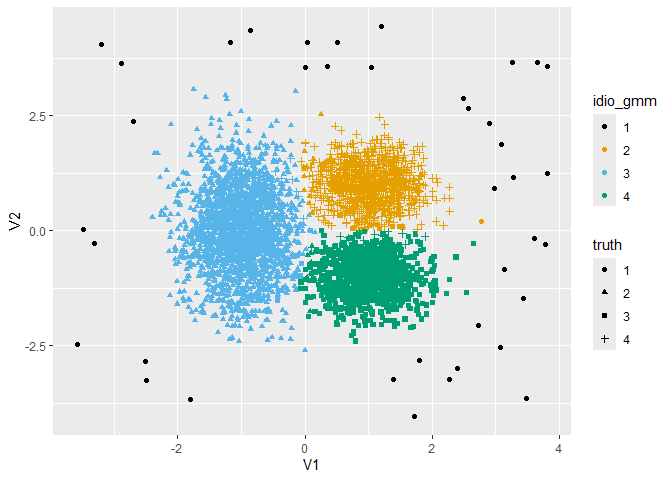
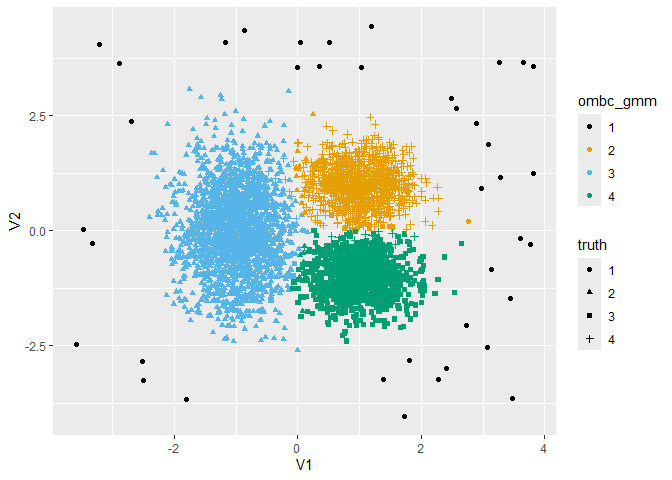
idioClust to outlierMBC

diff --git a/README.md b/README.md
@@ -1,13 +1,13 @@
-idioClust
+outlierMBC
 ================
 Ultán P. Doherty
 2024-04-18
 
-## Iterative Detection & Identification of Outliers while Clustering
+## Outlier Identification for Model-Based Clustering
 
-- `idio_gmm` - Identify multivariate outliers while clustering the data
+- `ombc_gmm` - Identify multivariate outliers while clustering the data
   with a Gaussian mixture model.
-- `idio_mlr` - Identify response variable outliers while fitting a
+- `ombc_mlr` - Identify response variable outliers while fitting a
   multiple linear regression model to the data.
 - `simulate_noisy_gmm` - Simulate data from a Gaussian mixture model
   with multivariate outliers.
@@ -19,28 +19,34 @@ library(ggplot2)
 devtools::load_all()
 ```
 
-    ## ℹ Loading idioClust
+    ## ℹ Loading outlierMBC
 
 ### `simulate_noisy_gmm`
 
 ``` r
 n_vec <- c(2000, 1000, 1000)
 mu_list <- list(c(-1, 0), c(+1, -1), c(+1, +1))
-sigma_list <- list(diag(c(0.2, 4 * 0.2)),
-                  diag(c(0.2, 0.2)),
-                  diag(c(0.2, 0.2)))
+sigma_list <- list(
+  diag(c(0.2, 4 * 0.2)),
+  diag(c(0.2, 0.2)),
+  diag(c(0.2, 0.2))
+)
 
 noisy_gmm_p2g3 <- simulate_noisy_gmm(
- n_vec, mu_list, sigma_list,
- outlier_num = 40, seed = 123, crit_val = 0.9999,
- unif_range_multiplier = 1.5
+  n_vec, mu_list, sigma_list,
+  outlier_num = 40, seed = 123, crit_val = 0.9999,
+  unif_range_multiplier = 1.5
 )
 ```
 
 ``` r
-ggplot(as.data.frame(noisy_gmm_p2g3),
-       aes(x = V1, y = V2,
-           colour = as.factor(labels), shape = as.factor(labels))) +
+ggplot(
+  as.data.frame(noisy_gmm_p2g3),
+  aes(
+    x = V1, y = V2,
+    colour = as.factor(labels), shape = as.factor(labels)
+  )
+) +
   geom_point() +
   labs(colour = "truth", shape = "truth") +
   ggokabeito::scale_colour_okabe_ito(order = c(9, 1, 2, 3))
@@ -48,31 +54,41 @@ ggplot(as.data.frame(noisy_gmm_p2g3),
 
 ![](README_files/figure-gfm/unnamed-chunk-3-1.png)<!-- -->
 
-### `idio_gmm`
+### `ombc_gmm`
 
 ``` r
-idio_gmm_p2g3 <- idio_gmm(noisy_gmm_p2g3[, 1:2], comp_num = 3, max_out = 80,
-                         print_interval = Inf)
+ombc_gmm_p2g3 <- ombc_gmm(noisy_gmm_p2g3[, 1:2],
+  comp_num = 3, max_out = 80,
+  print_interval = Inf
+)
 ```
 
 ``` r
-ggplot(data.frame(outliers_removed = 0:80, 
-                  distrib_diffs = idio_gmm_p2g3$distrib_diffs),
-       aes(x = outliers_removed, y = distrib_diffs)) +
+ggplot(
+  data.frame(
+    outliers_removed = 0:80,
+    distrib_diffs = ombc_gmm_p2g3$distrib_diffs
+  ),
+  aes(x = outliers_removed, y = distrib_diffs)
+) +
   geom_line() +
   geom_point() +
-  geom_vline(xintercept = idio_gmm_p2g3$outlier_num)
+  geom_vline(xintercept = ombc_gmm_p2g3$outlier_num)
 ```
 
 ![](README_files/figure-gfm/unnamed-chunk-5-1.png)<!-- -->
 
 ``` r
-ggplot(as.data.frame(noisy_gmm_p2g3),
-       aes(x = V1, y = V2,
-           colour = as.factor(idio_gmm_p2g3$gmm_labels),
-           shape = as.factor(1 + labels))) +
+ggplot(
+  as.data.frame(noisy_gmm_p2g3),
+  aes(
+    x = V1, y = V2,
+    colour = as.factor(ombc_gmm_p2g3$gmm_labels),
+    shape = as.factor(1 + labels)
+  )
+) +
   geom_point() +
-  labs(colour = "idio_gmm", shape = "truth") +
+  labs(colour = "ombc_gmm", shape = "truth") +
   ggokabeito::scale_colour_okabe_ito(order = c(9, 1, 2, 3))
 ```
 
@@ -88,15 +104,20 @@ beta_list <- list(c(1, 1))
 error_sd_vec <- c(0.5)
 
 noisy_mlr_p1 <- simulate_noisy_mlr(n_vec, mu_list, sigma_list, beta_list,
-                                   error_sd_vec,
-                                   outlier_num = 20, seed = 123,
-                                   crit_val = 0.9999)
+  error_sd_vec,
+  outlier_num = 20, seed = 123,
+  crit_val = 0.9999
+)
 ```
 
 ``` r
-ggplot(as.data.frame(noisy_mlr_p1),
-       aes(x = V1, y = responses,
-           colour = as.factor(labels), shape = as.factor(labels))) +
+ggplot(
+  as.data.frame(noisy_mlr_p1),
+  aes(
+    x = V1, y = responses,
+    colour = as.factor(labels), shape = as.factor(labels)
+  )
+) +
   geom_point() +
   labs(colour = "truth", shape = "truth") +
   ggokabeito::scale_colour_okabe_ito(order = c(9, 1))
@@ -104,18 +125,23 @@ ggplot(as.data.frame(noisy_mlr_p1),
 
 ![](README_files/figure-gfm/unnamed-chunk-8-1.png)<!-- -->
 
-### `idio_mlr`
+### `ombc_mlr`
 
 ``` r
-idio_mlr_p1 <- idio_mlr(noisy_mlr_p1$covariates, noisy_mlr_p1$responses,
-                        max_out = 40, print_interval = Inf)
+ombc_mlr_p1 <- ombc_mlr(noisy_mlr_p1$covariates, noisy_mlr_p1$responses,
+  max_out = 40, print_interval = Inf
+)
 ```
 
 ``` r
-ggplot(data.frame(outliers_removed = 0:40,
-                  distrib_diffs = idio_mlr_p1$distrib_diffs,
-                  outlier_num = idio_mlr_p1$outlier_num),
-       aes(x = outliers_removed, y = distrib_diffs)) +
+ggplot(
+  data.frame(
+    outliers_removed = 0:40,
+    distrib_diffs = ombc_mlr_p1$distrib_diffs,
+    outlier_num = ombc_mlr_p1$outlier_num
+  ),
+  aes(x = outliers_removed, y = distrib_diffs)
+) +
   geom_line() +
   geom_point() +
   geom_vline(aes(xintercept = outlier_num))
@@ -124,12 +150,16 @@ ggplot(data.frame(outliers_removed = 0:40,
 ![](README_files/figure-gfm/unnamed-chunk-10-1.png)<!-- -->
 
 ``` r
-ggplot(as.data.frame(noisy_mlr_p1),
-       aes(x = V1, y = responses,
-           colour = as.factor(1 + idio_mlr_p1$outlier_bool),
-           shape = as.factor(1 + labels))) +
+ggplot(
+  as.data.frame(noisy_mlr_p1),
+  aes(
+    x = V1, y = responses,
+    colour = as.factor(1 + ombc_mlr_p1$outlier_bool),
+    shape = as.factor(1 + labels)
+  )
+) +
   geom_point() +
-  labs(colour = "idio_mlr", shape = "truth") +
+  labs(colour = "ombc_mlr", shape = "truth") +
   ggokabeito::scale_colour_okabe_ito(order = c(9, 1, 2, 3))
 ```
 
